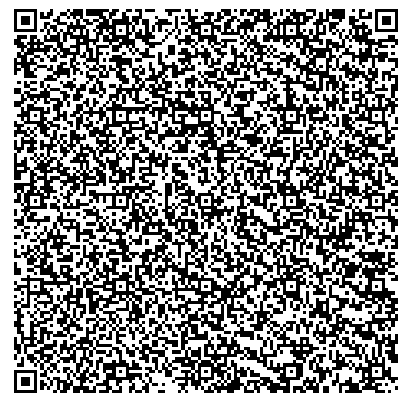
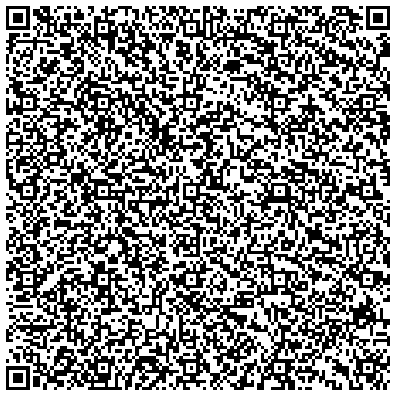
v1 without snap

diff --git a/src/components/SubmitKYC.tsx b/src/components/SubmitKYC.tsx
@@ -2,20 +2,21 @@ import React from 'react';
 import { useAccount } from 'wagmi';
 import { Button, Dialog, DialogTitle, DialogContent, DialogActions } from '@mui/material';
 import Mumbai_QR_Code from "../assets/QR_codes/mumbai_verif_qrcode.png";
+import NoNeed_QR_Code from "../assets/QR_codes/no_need_qr_code.png";
 
 // Définir qrCodesByNetwork comme un Record<number, string>
 const qrCodesByNetwork: Record<number, string> = {
-  48899 : 'url_to_zircuit_testnet_qr_code.png', // Zircuit Testnet
-  2525 : 'url_to_injective_testnet_qr_code.png', // Injective Testnet
-  9090 : 'url_to_inco_gentry_testnet_qr_code.png', // Inco Gentry Testnet
+  48899 : NoNeed_QR_Code, // Zircuit Testnet
+  2525 : NoNeed_QR_Code, // Injective Testnet
+  9090 : NoNeed_QR_Code, // Inco Gentry Testnet
   80001 : Mumbai_QR_Code, // Mumbai Testnet
-  11155111 : 'url_to_sepolia_qr_code.png', // Sepolia
-  59140 : 'url_to_linea_testnet_qr_code.png', // Linea Testnet
-  1313161555 : 'url_to_aurora_testnet_qr_code.png', // Aurora Testnet
-  51 : 'url_to_xdc_testnet_qr_code.png', // XDC Testnet
-  23295 : 'url_to_oasis_testnet_qr_code.png', // Oasis Testnet
-  296 : 'url_to_hedera_testnet_qr_code.png', // Hedera Testnet
-  1287 : 'url_to_moonbase_alpha_qr_code.png', // Moonbase Alpha
+  11155111 : NoNeed_QR_Code, // Sepolia
+  59140 : NoNeed_QR_Code, // Linea Testnet
+  1313161555 : NoNeed_QR_Code, // Aurora Testnet
+  51 : NoNeed_QR_Code, // XDC Testnet
+  23295 : NoNeed_QR_Code, // Oasis Testnet
+  296 : NoNeed_QR_Code, // Hedera Testnet
+  1287 : NoNeed_QR_Code, // Moonbase Alpha
 };
 
 const SubmitKYC: React.FC = () => {

diff --git a/src/pages/PolygonIDClaim.tsx b/src/pages/PolygonIDClaim.tsx
@@ -9,7 +9,7 @@ const steps = ['Connect Wallet', 'Background Check', 'Claim PolygonID Credential
 
 const stepDescriptions = [
   "🔗 You need to connect with your address and select the network you wish to be KYC'd on. This will allow you to enter and exit the protocol. You must go through the process for each network you are interested in.",
-  "🕵 We ensure that the address interacting with our protocol is not flagged as malicious/fraudulent tahnks to Harpie",
+  "🕵 We ensure that the address interacting with our protocol is not flagged as malicious/fraudulent thanks to Harpie",
   "🪪 Claim your PolygonID Credential via PolygonID's mobile or web wallet.",
   "✅ Submit your KYC proof to the plasma contract, and you're all set!"
 ];
@@ -97,7 +97,7 @@ const PolygonClaimID: React.FC = () => {
         <Button
           variant="contained"
           component="a"
-          href="https://issuer-ui.polygonid.me/credentials/scan-link/32fa5c8c-8ae7-44ea-9813-ee6e14c50d45"
+          href="https://issuer-ui.polygonid.me/credentials/scan-link/e74da677-4618-499c-8c73-bb1f35977a35"
           target="_blank"
           rel="noopener noreferrer"
           onClick={handleClaimCredentialClick}

diff --git a/src/App.tsx b/src/App.tsx
@@ -20,7 +20,7 @@ function App() {
           <Routes>
             <Route path="/" element={<HomePage />} />
             <Route path="/background-check" element={<BackgroundCheck />} />
-            <Route path="/polygon-id-claim" element={<PolygonClaimID />} />
+            <Route path="/kyc-process" element={<PolygonClaimID />} />
             <Route path="*" element={<NotFound/>}/>
           </Routes>
         </div>

diff --git a/src/components/Navbar.tsx b/src/components/Navbar.tsx
@@ -50,7 +50,7 @@ const Navbar: React.FC<NavbarProps> = ({ logo }) => {
         <Button
             color="inherit"
             component={Link}
-            to="/polygon-id-claim"
+            to="/kyc-process"
             sx={{
               border: `1px solid ${theme.palette.primary.main}`, // Bordure violette
               borderRadius: '4px', // Bordures arrondies
